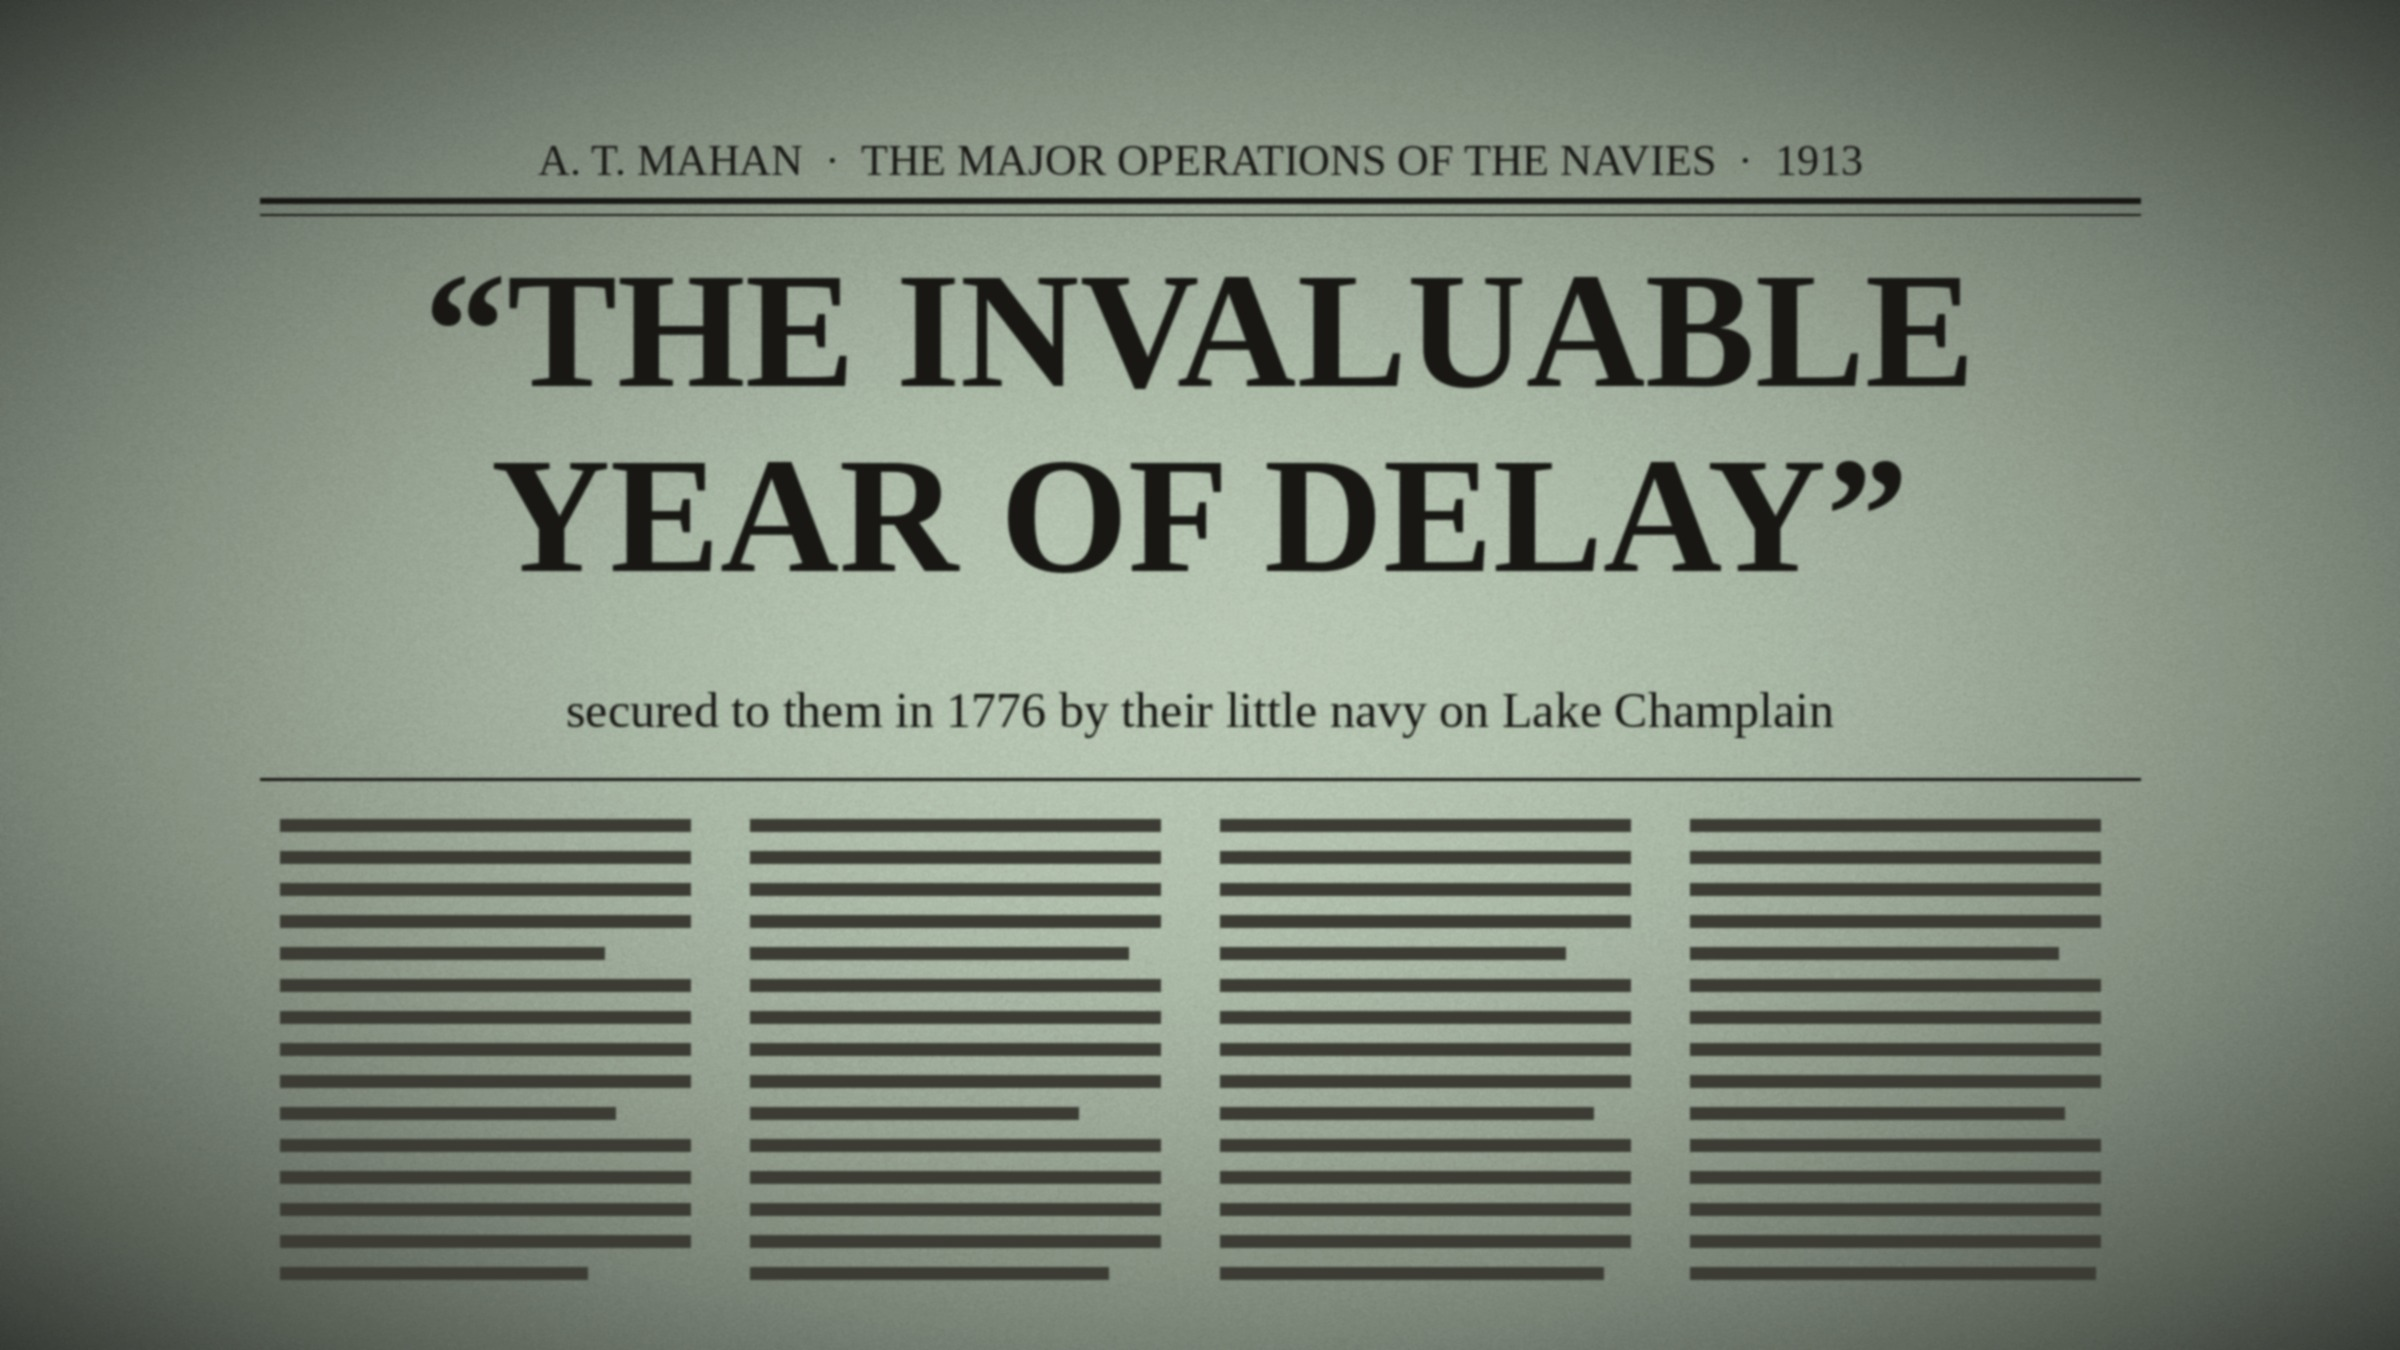
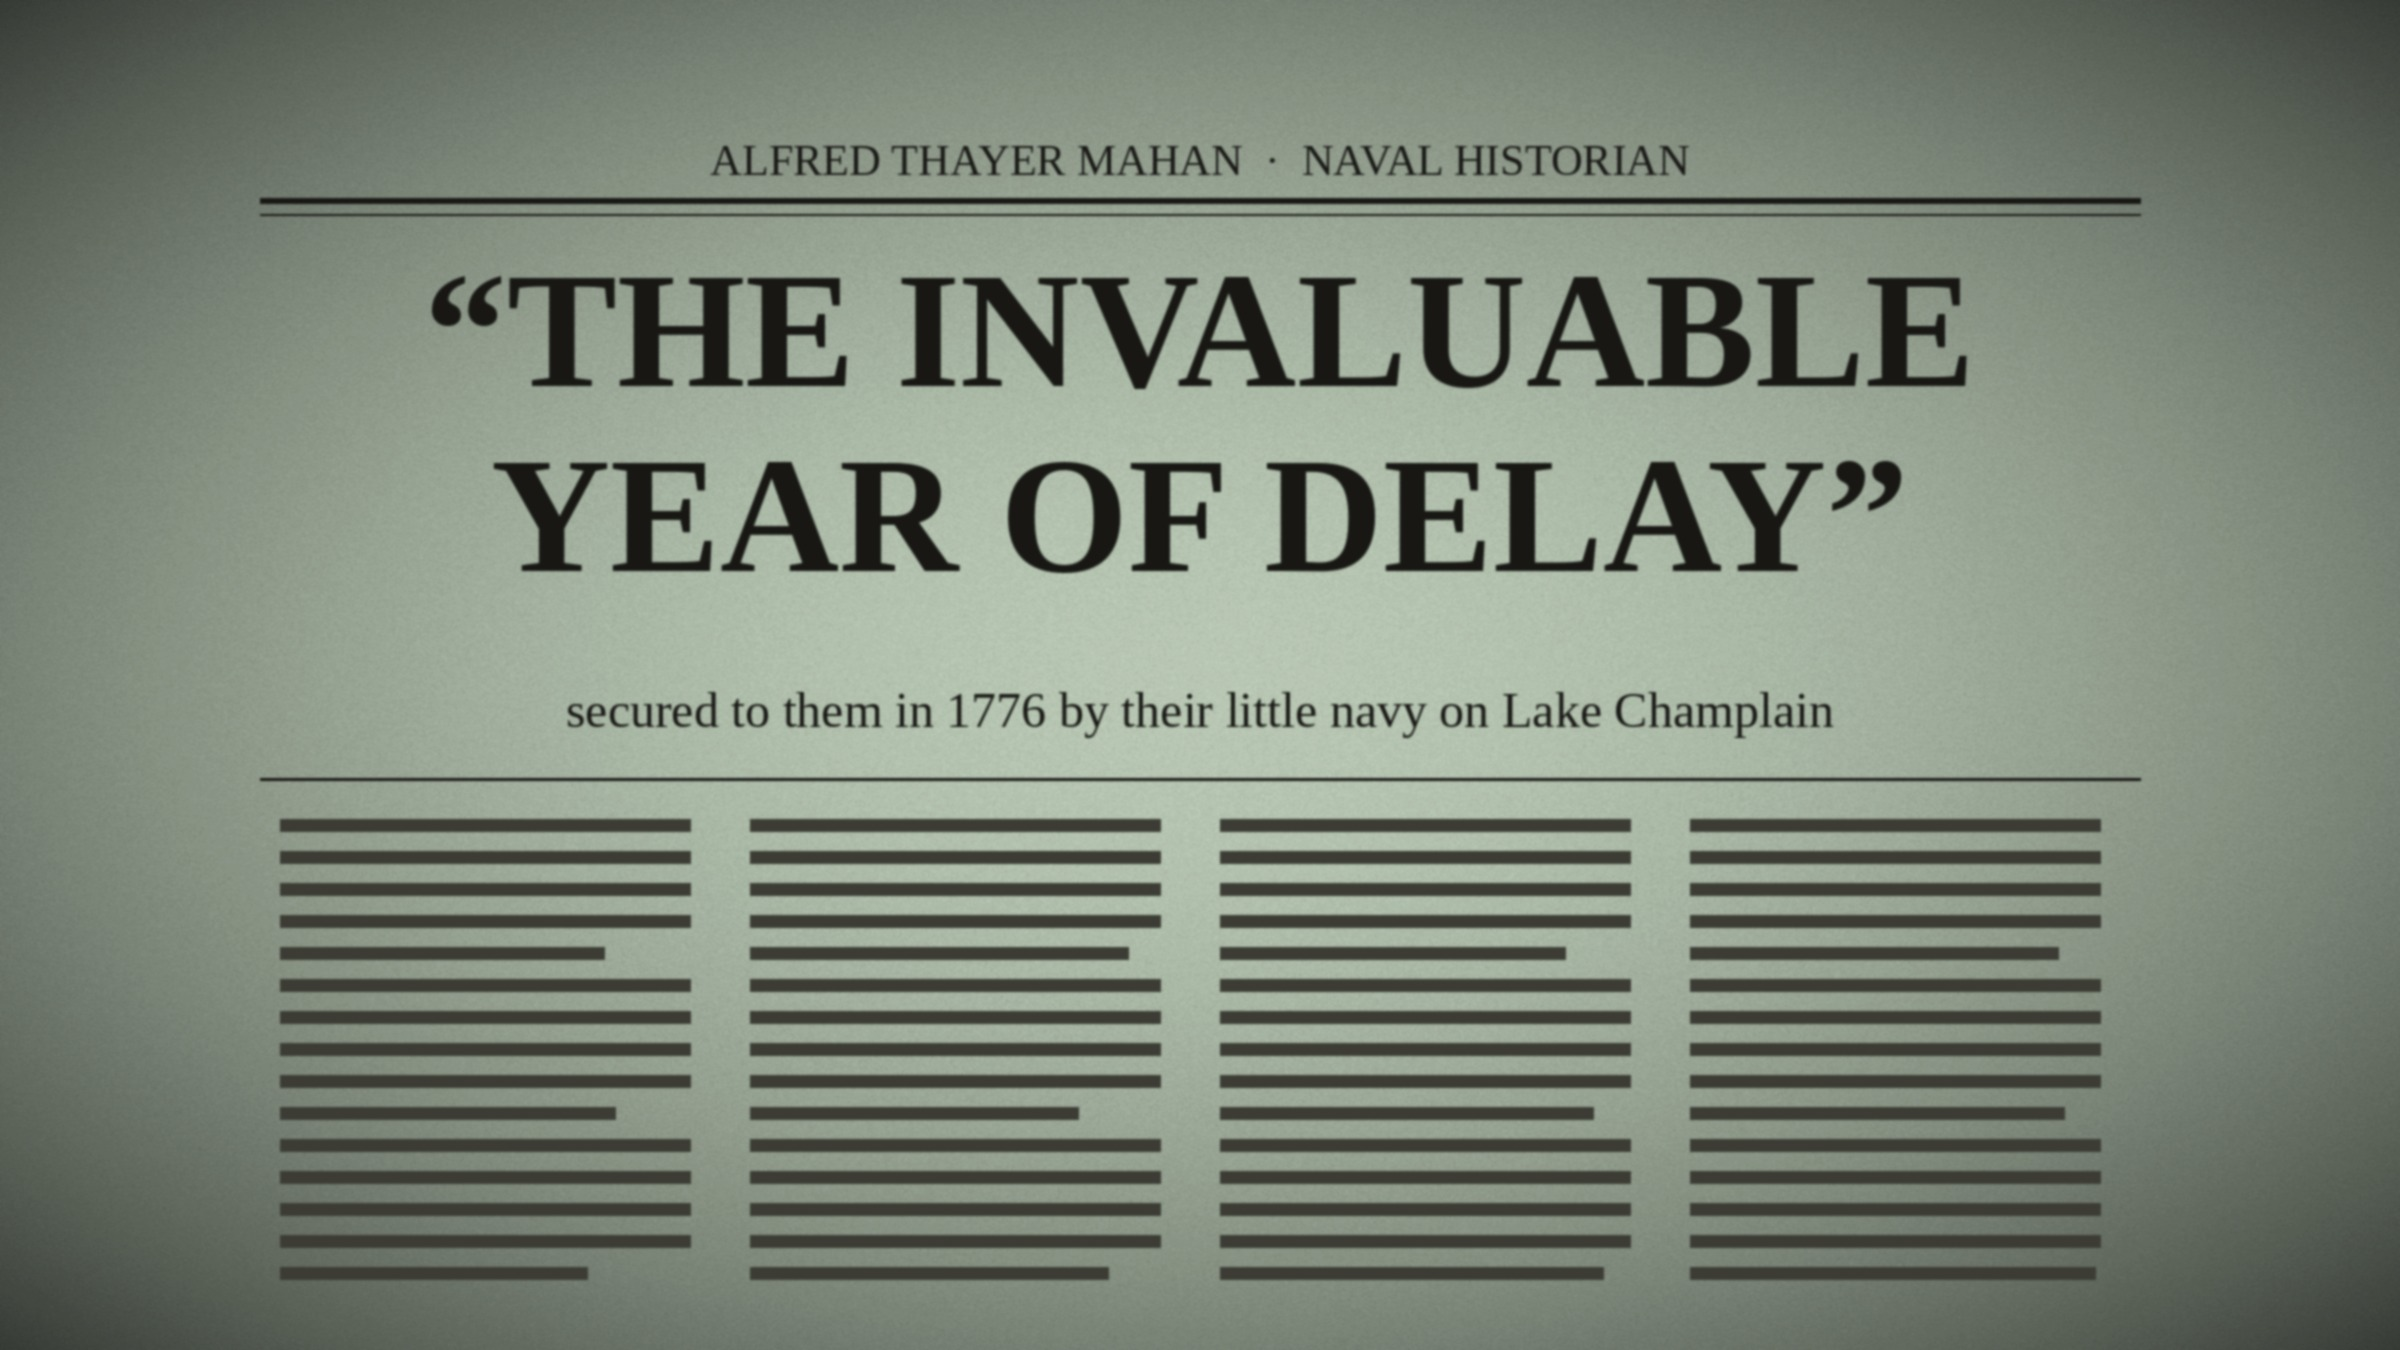
Arnold fix pass: archive blocks re-timed to spoken words, Ticonderoga headline card, portraits fill the projector frame, cards without unspoken words, Mahan insert on his name
Claude-Session: https://claude.ai/code/session_011uJnjBJgCzRPTV9GJ1zhMC

Changed region(s): [[0.2188, 0.0933, 0.7188, 0.1556], [0.75, 0.0933, 0.7812, 0.1244]]

diff --git a/arnold/tools/make_headline_arnold.py b/arnold/tools/make_headline_arnold.py
@@ -4,8 +4,9 @@ from PIL import Image, ImageDraw, ImageFilter, ImageFont
 from scipy import ndimage
 SB = "/usr/share/fonts/truetype/liberation/LiberationSerif-Bold.ttf"; SR = "/usr/share/fonts/truetype/liberation/LiberationSerif-Regular.ttf"
 CARDS = {
-    "congress": ("CONTINENTAL CONGRESS  ·  FEBRUARY 1777", ["FIVE NEW", "MAJOR GENERALS"], "Five brigadiers are promoted. Benedict Arnold, senior to them, is passed over"),
-    "mahan": ("A. T. MAHAN  ·  THE MAJOR OPERATIONS OF THE NAVIES  ·  1913", ["“THE INVALUABLE", "YEAR OF DELAY”"], "secured to them in 1776 by their little navy on Lake Champlain"),
+    "congress": ("CONTINENTAL CONGRESS  ·  FEBRUARY 1777", ["FIVE GENERALS", "PROMOTED"], "Congress promotes five generals who were junior to Benedict Arnold"),
+    "ticonderoga": ("LAKE CHAMPLAIN  ·  MAY 1775", ["FORT TICONDEROGA", "CAPTURED"], "Benedict Arnold helps capture the fort weeks after the war began"),
+    "mahan": ("ALFRED THAYER MAHAN  ·  NAVAL HISTORIAN", ["“THE INVALUABLE", "YEAR OF DELAY”"], "secured to them in 1776 by their little navy on Lake Champlain"),
     "gates": ("GEN. HORATIO GATES  ·  REPORT  ·  OCTOBER 1777", ["“THE GALLANT", "GENERAL ARNOLD”"], "whose Leg was fractured by a musket ball, as he forced the Enemy's Breast Work"),
 }
 PW, PH = 2400, 1350

diff --git a/arnold/tools/make_cards_arnold.py b/arnold/tools/make_cards_arnold.py
@@ -17,7 +17,7 @@ def wide(src, out, fx=0.5):
     bg = cover(im).filter(ImageFilter.GaussianBlur(40)); bg = Image.fromarray((np.asarray(bg, np.float32) * 0.45).astype(np.uint8))
     w = int(im.width * H / im.height); fg = im.resize((w, H), Image.LANCZOS); bg.paste(fg, (int(W * fx - w / 2), 0)); bg.save(M + out, quality=93)
 datecard("arch_ticonderoga.jpg", "MAY 1775", "LAKE CHAMPLAIN", "card_1775_champlain.jpg")
-datecard("arch_ticonderoga.jpg", "JULY 1777", "FORT TICONDEROGA", "card_1777_ticonderoga.jpg")
+datecard("arch_ticonderoga.jpg", "1777", "FORT TICONDEROGA", "card_1777_ticonderoga.jpg")
 wide("arch_arnold_mezzotint.jpg", "archw_arnold.jpg")
 wide("washington_src.jpg", "archw_washington.jpg")
 wide("arch_philadelphia.jpg", "archw_philadelphia.jpg")
